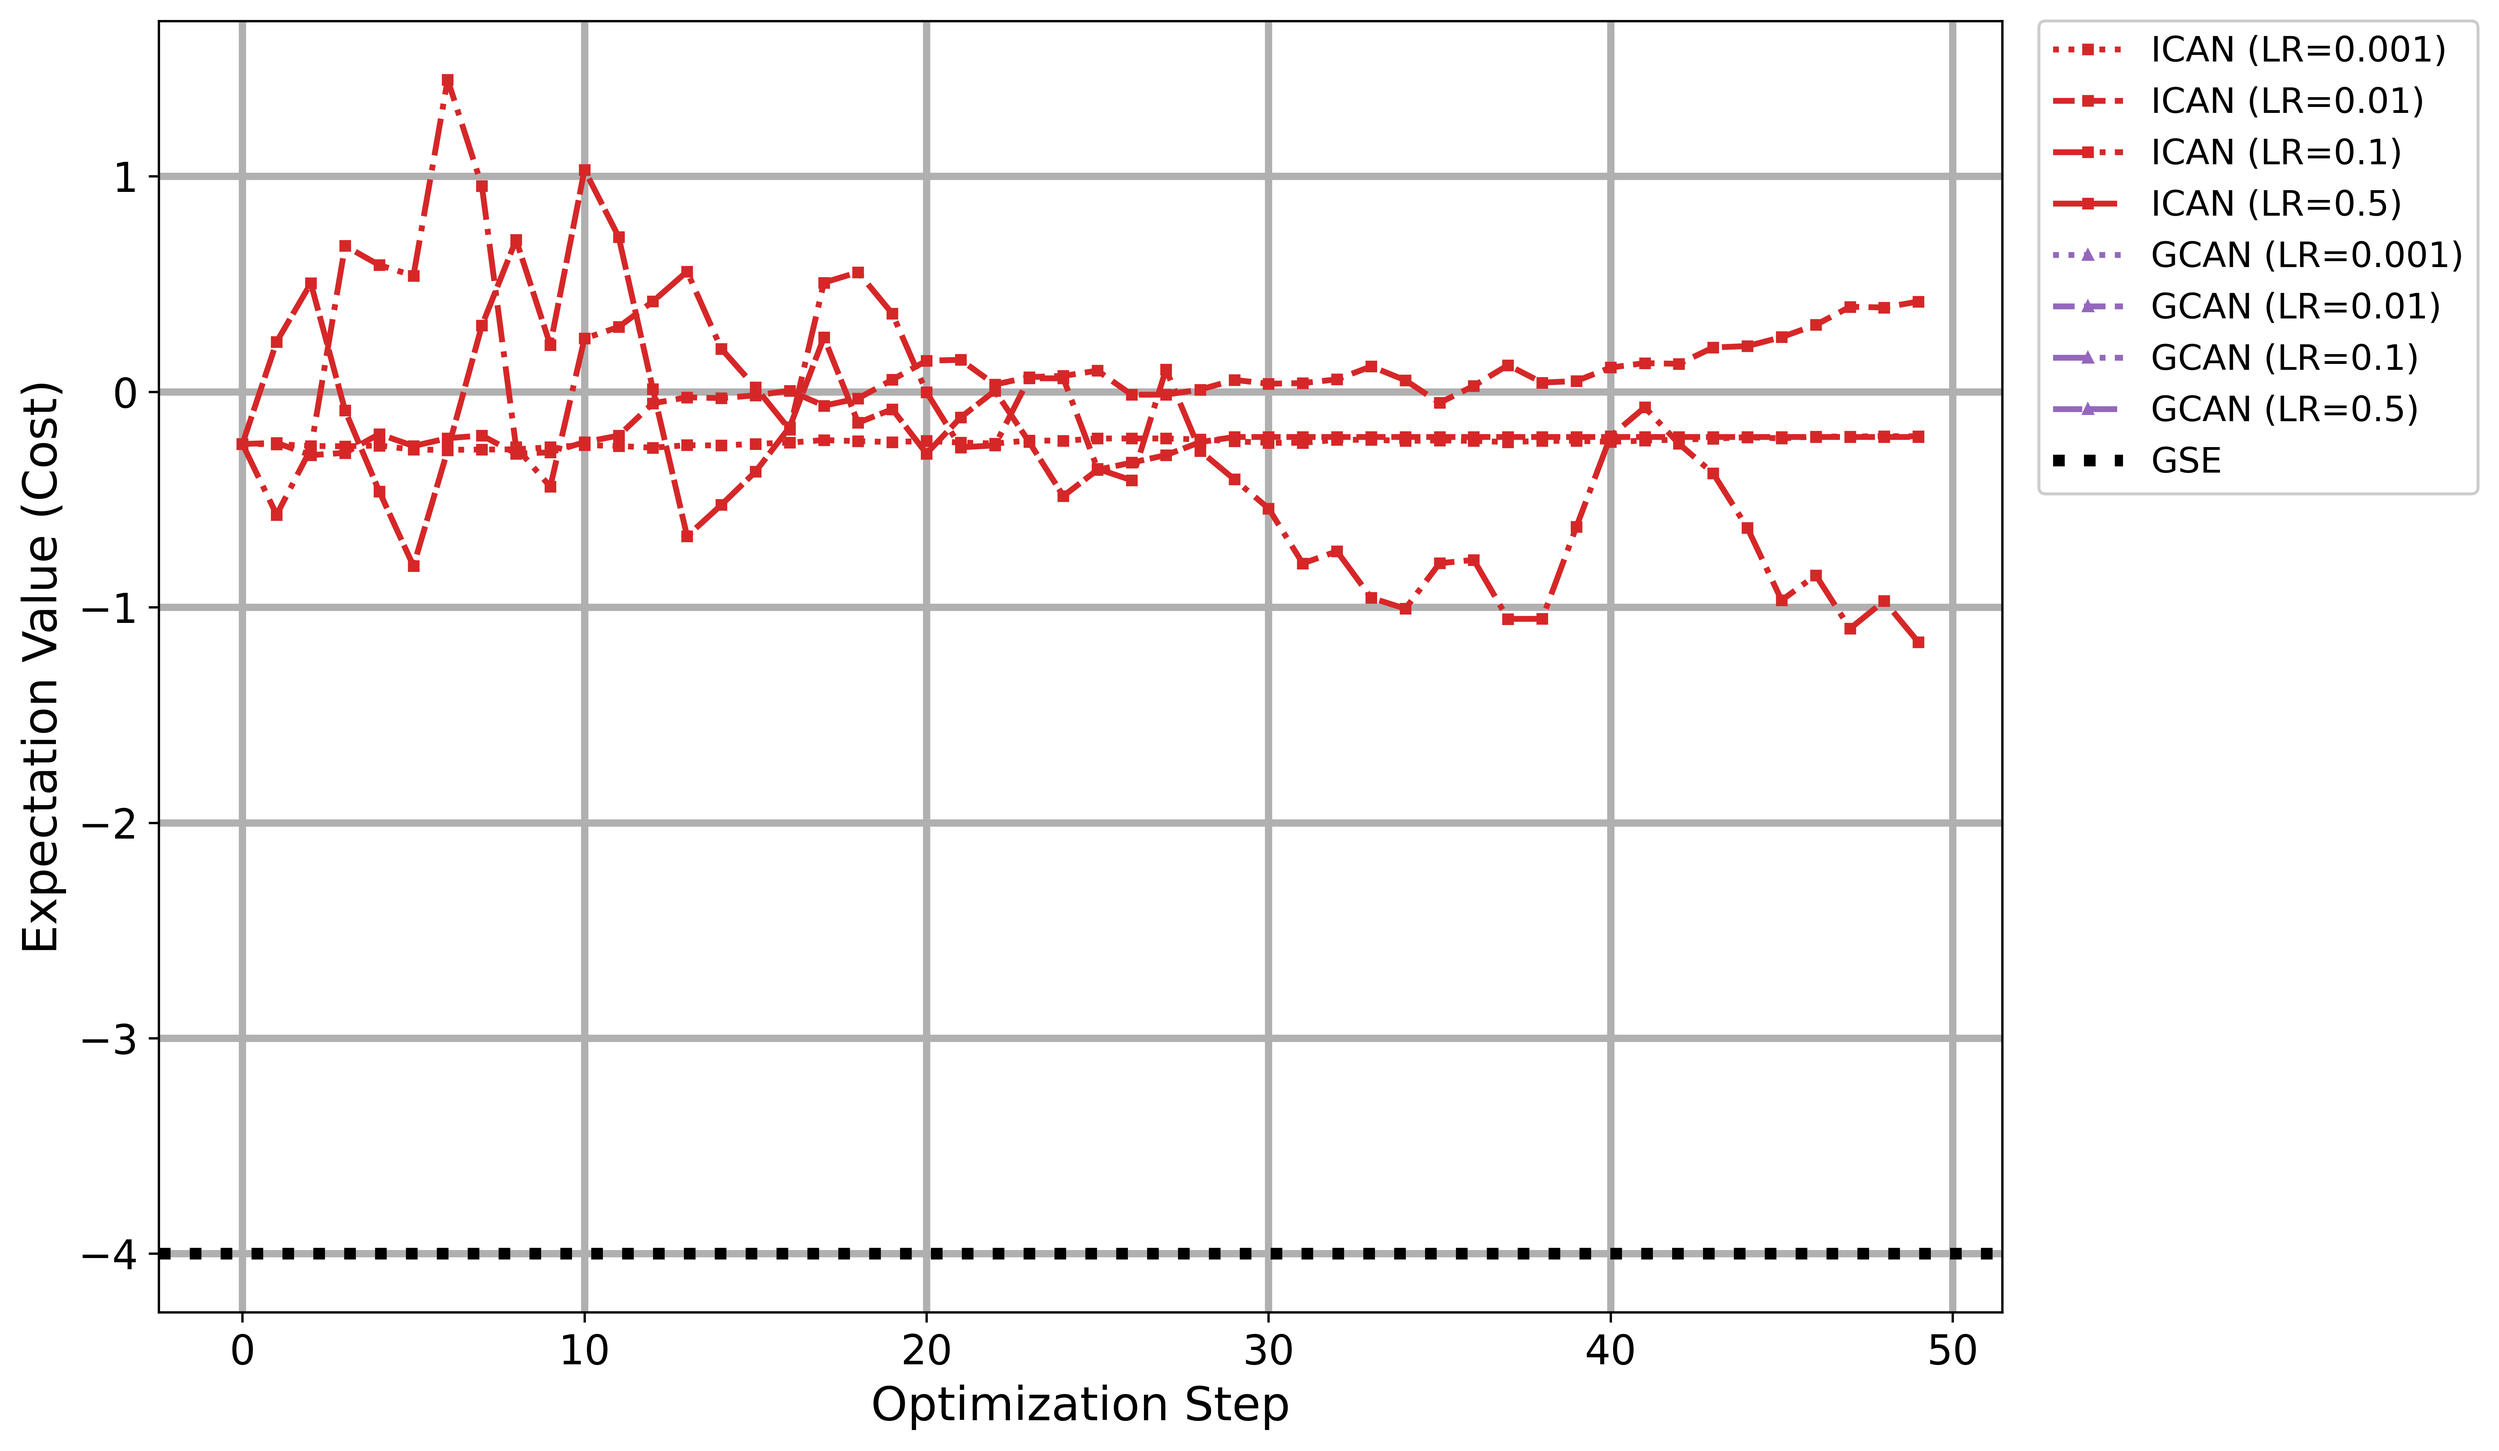
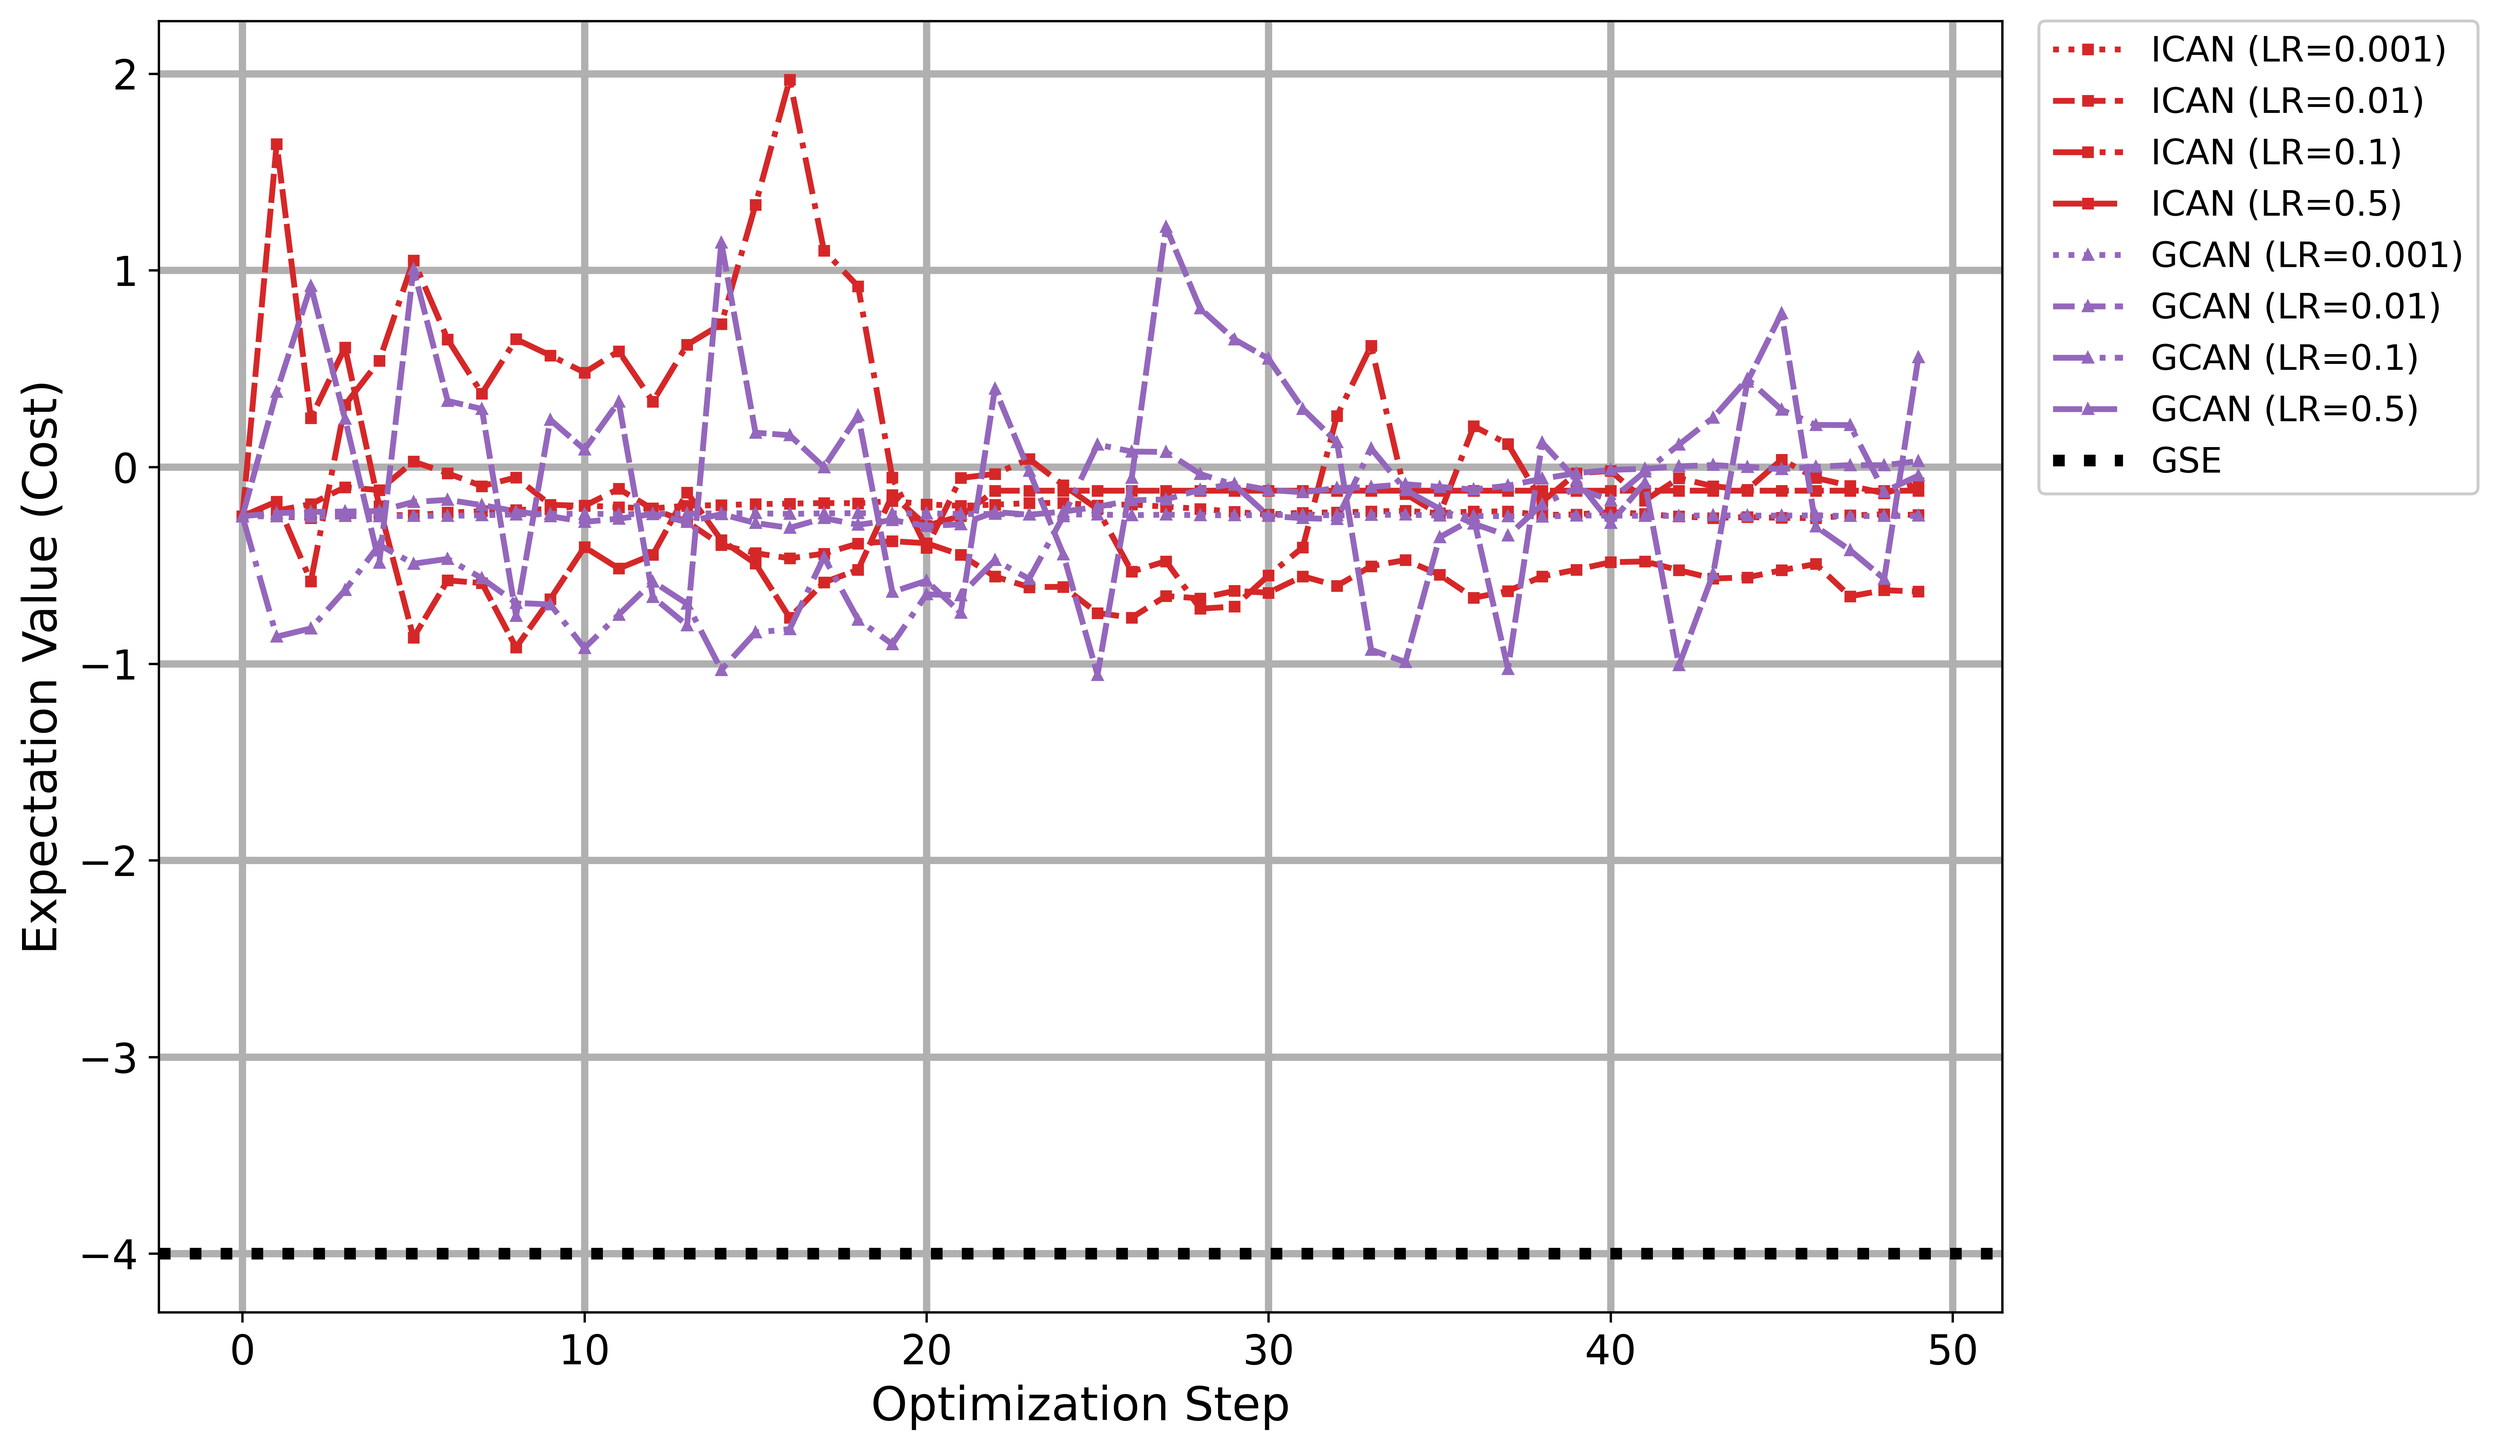
gCANS prelim

diff --git a/Parag/QAOA opt benchmarks/gCANSOptimizer.py b/Parag/QAOA opt benchmarks/gCANSOptimizer.py
@@ -1,0 +1,119 @@
+import pennylane as qml
+from pennylane import numpy as np
+
+class gCANSOptimizer:
+    def __init__(self, step=0.1, L=1.0, s_min=10, N=10000, mu=0.99, b=1e-6, icans_type=1):
+        """
+        iCANS Optimizer for Measurement-Frugal Variational Algorithms.
+        
+        Args:
+            alpha (float): Learning rate. Must be < 2/L.
+            L (float): Lipschitz constant bound.
+            s_min (int): Minimum number of shots per partial derivative estimation.
+            N (int): Total number of shots allowed for the entire optimization.
+            mu (float): Exponential moving average constant (0 < mu < 1).
+            b (float): Small regularizing bias parameter to prevent division by zero.
+            icans_type (int): 1 for iCANS1 (standard), 2 for iCANS2 (adaptive learning rate check).
+        """
+        self.alpha = step
+        self.L = L
+        self.s_min = s_min
+        self.N = N
+        self.mu = mu
+        self.b = b
+        self.icans_type = icans_type
+        
+        # Internal state variables
+        self.s_tot = 0
+        self.k = 0
+        self.chi_prime = None
+        self.xi_prime = None
+        self.s = None
+
+    def _iEvaluate(self, qnode, theta, s_array):
+        """
+        Evaluates the gradient and the variance of the gradient estimates 
+        by simulating shot noise classically to bypass PennyLane's finite-shot variance limitations.
+        """
+        d = len(theta)
+        g = np.zeros(d)
+        S = np.zeros(d)
+        
+        for i in range(d):
+            s_i = int(s_array[i])
+            
+            # Forward shift (+pi/2)
+            theta_plus = np.copy(theta)
+            theta_plus[i] += np.pi / 2
+            
+            # Execute exactly (shots=None bypasses the VarianceMP limitation)
+            exact_expval_plus, exact_var_plus = qnode(theta_plus, shots=None)
+            
+            # Classically simulate the finite-shot expectation value
+            expval_plus = np.random.normal(exact_expval_plus, np.sqrt(exact_var_plus / s_i))
+            
+            # Backward shift (-pi/2)
+            theta_minus = np.copy(theta)
+            theta_minus[i] -= np.pi / 2
+            
+            # Execute exactly
+            exact_expval_minus, exact_var_minus = qnode(theta_minus, shots=None)
+            
+            # Classically simulate the finite-shot expectation value
+            expval_minus = np.random.normal(exact_expval_minus, np.sqrt(exact_var_minus / s_i))
+            
+            # Gradient estimate via parameter shift rule[cite: 1, 2]
+            g[i] = (expval_plus - expval_minus) / 2.0
+            
+            # Variance of the gradient estimate S_i
+            S[i] = (exact_var_plus + exact_var_minus) / 4.0   
+            
+        return g, S
+
+    def step(self, qnode, theta):
+        """
+        Performs one optimization step using the iCANS1/2 algorithm.
+        """
+        d = len(theta)
+        
+        # Initialize
+        if self.s is None:
+            self.s = np.full(d, self.s_min, dtype=float)
+            self.chi_prime = np.zeros(d)
+            self.xi_prime = np.zeros(d)
+            
+        if self.s_tot >= self.N:
+            print(f"Total shot budget {self.N} reached.")
+            return theta
+
+        # Evaluate gradient and variances
+        g, S = self._iEvaluate(qnode, theta, self.s)
+        
+        # Update total shots
+        self.s_tot += 2 * np.sum(self.s)
+        
+        # Update smoothed estimators
+        self.chi_prime = self.mu * self.chi_prime + (1 - self.mu) * g
+        self.xi_prime = self.mu * self.xi_prime + (1 - self.mu) * S
+        xi = self.xi_prime / (1 - self.mu**(self.k + 1))
+        chi = self.chi_prime / (1 - self.mu**(self.k + 1))
+        
+        theta_new = np.copy(theta)
+        s_next = np.zeros(d)
+
+        chi_norm_sq = np.sum(chi**2) + 1e-8
+        factor = (2 * self.L * self.alpha) / (2 - self.L * self.alpha)
+        # Iterate over each parameter dimension
+        for i in range(d):
+            # Update params
+            theta_new[i] -= self.alpha * g[i]
+            
+            # Compute recommended shots
+            s_next_i = np.ceil(factor * (xi[i] * np.sum(xi)) / chi_norm_sq)
+            
+            # Bound below by s_min to maintain valid sampling size
+            s_next[i] = max(self.s_min, s_next_i)
+        # Increment iteration counter
+        self.k += 1
+        
+        return theta_new

diff --git a/Parag/QAOA opt benchmarks/cans_bench.py b/Parag/QAOA opt benchmarks/cans_bench.py
@@ -7,18 +7,7 @@ import networkx as nx
 
 
 from iCANSOptimizer import iCANSOptimizer
-
-class GCAN:
-    """GCAN optimizer -- implementation intentionally left blank."""
-
-    def __init__(self, stepsize=0.01):
-        self.stepsize = stepsize
-
-    def step(self, cost_fn, params):
-        # TODO: implement the GCAN update rule here
-        # (placeholder returns params unchanged so the pipeline still runs)
-        return params
-###########################################################################
+from gCANSOptimizer import gCANSOptimizer
 
 
 configs = [(4, 2)]#, (6, 4), (8, 4), (10, 5), (12, 6), (14, 7), (4, 4), (6, 6), (8, 6), (10, 9), (12, 10), (14, 11)]
@@ -114,15 +103,15 @@ for q, l in configs:
                 ican_params = ican_opt.step(cost_fn, ican_params)
             all_ican[lr].append([float(c[0]) for c in ican_costs])
 
-        # for lr in gcan_lrs:
-        #     gcan_params = initial_params.copy()
-        #     gcan_costs = []
-        #     gcan_opt = GCAN(stepsize=lr)
-        #     for step in range(n_steps):
-        #         gcan_cost = cost_fn(gcan_params)
-        #         gcan_costs.append(gcan_cost)
-        #         gcan_params = gcan_opt.step(cost_fn, gcan_params)
-        #     all_gcan[lr].append([float(c) for c in gcan_costs])
+        for lr in gcan_lrs:
+            gcan_params = initial_params.copy()
+            gcan_costs = []
+            gcan_opt = gCANSOptimizer(step=lr)
+            for step in range(n_steps):
+                gcan_cost = cost_fn(gcan_params)
+                gcan_costs.append(gcan_cost)
+                gcan_params = gcan_opt.step(cost_fn, gcan_params)
+            all_gcan[lr].append([float(c[0]) for c in gcan_costs])
 
 
     ican_curves = {lr: std_np.mean(all_ican[lr], axis=0) for lr in ican_lrs}
@@ -131,7 +120,7 @@ for q, l in configs:
     x = list(range(1, n_steps + 1))
     results = {"num_qubits": int(num_qubits), "num_layers": int(num_layers),
             "polyak_gd": {}, "polyak_qng": {}, "ican": {}, "gcan": {}}
-    for name, lrs, data in [("ican", ican_lrs, all_ican)]:#, ("gcan", gcan_lrs, all_gcan)]:
+    for name, lrs, data in [("ican", ican_lrs, all_ican), ("gcan", gcan_lrs, all_gcan)]:
         for lr in lrs:
             d = {}
             for r in range(5):
